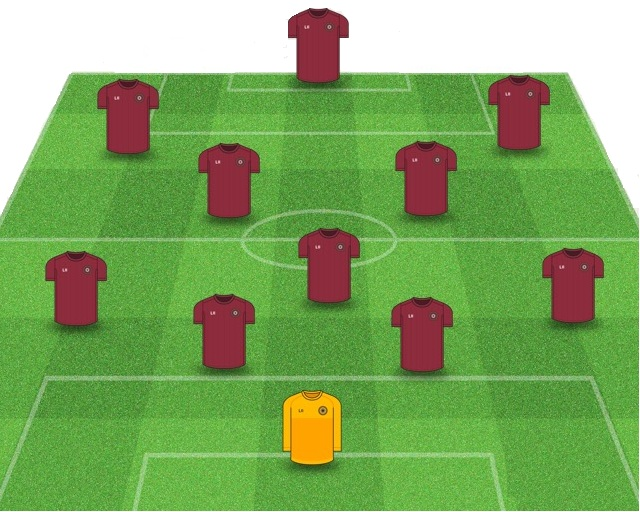
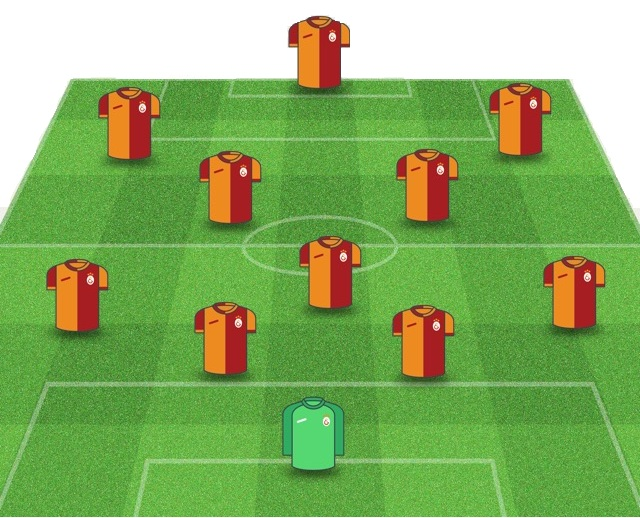
Finalized Tactic view

diff --git a/src/model/DatabaseAccess.java b/src/model/DatabaseAccess.java
@@ -85,35 +85,35 @@ public class DatabaseAccess {
 		ArrayList<Player> players = new ArrayList<Player>();
 		ArrayList<Action> actions = new ArrayList<Action>();
 		// GK
-		players.add(new Player("Fernando Muslera", 30, 180, 70, "Uruguay", "GK", getOverall(), 'R', 1000000, 10000000,
+		players.add(new Player("Muslera", 30, 180, 70, "Uruguay", "GK", 83, 'R', 1000000, 10000000,
 				true, getAttributes(), actions));
 		// DF
-		players.add(new Player("Mariano", 30, 180, 70, "Brazil", "RB", getOverall(), 'R', 1000000, 10000000, true,
+		players.add(new Player("Mariano", 30, 180, 70, "Brazil", "RB", 80, 'R', 1000000, 8000000, true,
 				getAttributes(), actions));
-		players.add(new Player("Maicon", 30, 180, 70, "Brazil", "CB", getOverall(), 'R', 1000000, 10000000, true,
+		players.add(new Player("Maicon", 30, 180, 70, "Brazil", "CB", 82, 'R', 1000000, 14000000, true,
 				getAttributes(), actions));
-		players.add(new Player("Serdar Aziz", 30, 180, 70, "Turkey", "CB", getOverall(), 'R', 1000000, 10000000, true,
+		players.add(new Player("Serdar", 30, 180, 70, "Turkey", "CB", 79, 'R', 1000000, 9000000, true,
 				getAttributes(), actions));
-		players.add(new Player("Yuto Nagatomo", 30, 180, 70, "Japan", "LB", getOverall(), 'R', 1000000, 10000000, true,
+		players.add(new Player("Nagatomo", 30, 180, 70, "Japan", "LB", 78, 'R', 1000000, 6000000, true,
 				getAttributes(), actions));
 		// MF
-		players.add(new Player("Selçuk İnan", 30, 180, 70, "Turkey", "CM", getOverall(), 'R', 1000000, 10000000, true,
+		players.add(new Player("Selçuk", 30, 180, 70, "Turkey", "CM", 79, 'R', 1000000, 5500000, true,
 				getAttributes(), actions));
-		players.add(new Player("Fernando Reges", 30, 180, 70, "Brazil", "CM", getOverall(), 'R', 1000000, 10000000,
+		players.add(new Player("Fernando", 30, 180, 70, "Brazil", "CM", 82, 'R', 1000000, 9000000,
 				true, getAttributes(), actions));
-		players.add(new Player("Younes Belhanda", 30, 180, 70, "Morocco", "CM", getOverall(), 'R', 1000000, 10000000,
+		players.add(new Player("Belhanda", 30, 180, 70, "Morocco", "CM", 80, 'R', 1000000, 12000000,
 				true, getAttributes(), actions));
 		// FW
-		players.add(new Player("Sofiane Feghouli", 30, 180, 70, "Algeria", "RW", getOverall(), 'R', 1000000, 10000000,
+		players.add(new Player("Feghouli", 30, 180, 70, "Algeria", "RW", 81, 'R', 1000000, 14000000,
 				true, getAttributes(), actions));
-		players.add(new Player("Bafetimbi Gomis", 30, 180, 70, "France", "ST", getOverall(), 'R', 1000000, 10000000,
+		players.add(new Player("Gomis", 30, 180, 70, "France", "ST", 83, 'R', 1000000, 10000000,
 				true, getAttributes(), actions));
-		players.add(new Player("Garry Rodrigues", 30, 180, 70, "Cape Verde", "LW", getOverall(), 'R', 1000000, 10000000,
+		players.add(new Player("Garry", 30, 180, 70, "Cape Verde", "LW", 79, 'R', 1000000, 16000000,
 				true, getAttributes(), actions));
 		// Others
-		players.add(new Player("Cedric Carrosco", 30, 180, 70, "France", "GK", getOverall(), 'R', 1000000, 10000000,
+		players.add(new Player("Cedric Carrosco", 30, 180, 70, "France", "GK", 78, 'R', 1000000, 3000000,
 				true, getAttributes(), actions));
-		players.add(new Player("Martin Linnes", 30, 180, 70, "Norway", "RB", getOverall(), 'R', 1000000, 10000000, true,
+		players.add(new Player("Martin Linnes", 30, 180, 70, "Norway", "RB", 77, 'R', 1000000, 5000000, true,
 				getAttributes(), actions));
 		players.add(new Player("Ahmet Çalık", 30, 180, 70, "Turkey", "CB", getOverall(), 'R', 1000000, 10000000, true,
 				getAttributes(), actions));
@@ -537,7 +537,7 @@ public class DatabaseAccess {
 		// President
 		President president = new President("Genesio", 71, 180, 70, "Portugal");
 		// Team
-		Team team = new Team("Lyon", "Red-Blue", "433", "Stade de Gerland", "Les Gones", "France", "LYO", 5.0, 0, 0,
+		Team team = new Team("Leverkusen", "Red-Blue", "433", "Stade de Gerland", "Les Gones", "France", "LYO", 5.0, 0, 0,
 				manager, president, players);
 		return team;
 	}

diff --git a/src/controller/TacticController.java b/src/controller/TacticController.java
@@ -1,5 +1,6 @@
 package controller;
 
+import java.io.File;
 import java.io.IOException;
 import java.net.URL;
 import java.time.LocalDate;
@@ -16,13 +17,16 @@ import javafx.scene.control.Alert;
 import javafx.scene.control.Alert.AlertType;
 import javafx.scene.control.Button;
 import javafx.scene.control.ComboBox;
+import javafx.scene.control.Labeled;
 import javafx.scene.control.ScrollPane;
+import javafx.scene.image.Image;
+import javafx.scene.image.ImageView;
 import javafx.scene.layout.GridPane;
 import javafx.scene.layout.HBox;
 import javafx.scene.text.Text;
 
 public class TacticController implements Initializable {
-	
+
 	@FXML
 	private Text teamName;
 	@FXML
@@ -57,7 +61,8 @@ public class TacticController implements Initializable {
 	private GridPane gridPlayer;
 	@FXML
 	private ScrollPane scrollPlayer;
-	
+	@FXML
+	private ImageView logo;
 	
 	@FXML
 	public void teamClicked() throws IOException {
@@ -106,9 +111,45 @@ public class TacticController implements Initializable {
 		Parent root = FXMLLoader.load(getClass().getResource("/view/MatchPlayView.fxml"));
 		Main.getMainStage().setScene(new Scene(root));
 	}
-	
+
 	@Override
 	public void initialize(URL url, ResourceBundle rb) {
+		Tournament current = Tournament.getInstance();
+		Team t = current.getTeams()[current.getMyTeamId()];
+		teamName.setText(t.getName());
+		gk.setText(t.getPlayers().get(0).getName());
+		this.rb.setText(t.getPlayers().get(1).getName());
+		cb1.setText(t.getPlayers().get(2).getName());
+		cb2.setText(t.getPlayers().get(3).getName());
+		lb.setText(t.getPlayers().get(4).getName());
+		cm1.setText(t.getPlayers().get(5).getName());
+		cm3.setText(t.getPlayers().get(6).getName());
+		cm2.setText(t.getPlayers().get(7).getName());
+		rw.setText(t.getPlayers().get(8).getName());
+		st.setText(t.getPlayers().get(9).getName());
+		lw.setText(t.getPlayers().get(10).getName());
+
+		File file = new File("img/galatasaray.png");
+		Image image = new Image(file.toURI().toString());
+		logo.setImage(image);
 		
+		for (int i = 0; i < 19; i++) {
+			Text playerName = new Text(t.getPlayers().get(i).getName());
+			Text position = new Text(t.getPlayers().get(i).getPosition());
+			if (i > 10)
+				position.setText("SUB");
+			Text overall = new Text(t.getPlayers().get(i).getOverall() + "");
+			Text nation = new Text(t.getPlayers().get(i).getNationality());
+			Text value = new Text(t.getPlayers().get(i).getValue()/1000000 + "m €");
+			System.out.println(gridPlayer == null);
+			gridPlayer.add(playerName, 1, i);
+			gridPlayer.add(position, 0, i);
+			gridPlayer.add(overall, 2, i);
+			gridPlayer.add(nation, 3, i);
+			gridPlayer.add(value, 4, i);
+			
+		}
 	}
+	
+
 }

diff --git a/src/controller/Main.java b/src/controller/Main.java
@@ -3,11 +3,14 @@ package controller;
 import java.io.IOException;
 import java.util.ArrayList;
 import javafx.application.Application;
+import javafx.beans.value.ChangeListener;
+import javafx.beans.value.ObservableValue;
 import javafx.stage.Stage;
 import javafx.fxml.FXMLLoader;
 import javafx.scene.Parent;
 import javafx.scene.Scene;
 import javafx.scene.image.Image;
+import javafx.scene.input.KeyCombination;
 import javafx.stage.Stage;
 import model.*;
 
@@ -22,14 +25,28 @@ public class Main extends Application {
 	
 	@Override
 	public void start(Stage primaryStage) throws Exception {
+		
 		mainStage = primaryStage;
 		mainStage.setTitle("Stars League");
 		mainStage.setResizable(false);
 		// Opening scene
 		Parent root = FXMLLoader.load(getClass().getResource("/view/HomeScreen.fxml"));
+		mainStage.setFullScreen(true);
 		mainStage.setScene(new Scene(root, 1400, 900));
+		mainStage.setFullScreen(true);
+		mainStage.setFullScreenExitKeyCombination(KeyCombination.NO_MATCH);
 		mainStage.show();
 	}
+	/*
+	primaryStage.fullScreenProperty().addListener(new ChangeListener<Boolean>() {
+
+        @Override
+        public void changed(ObservableValue<? extends Boolean> observable,
+                Boolean oldValue, Boolean newValue) {
+            if(newValue != null && !newValue.booleanValue())
+                primaryStage.setFullScreen(true);
+        }
+    }*/
 
 	public static int getOverall() {
 		return MIN_SCORE + (int) (Math.random() * DIFF_SCORE + 1);
@@ -172,8 +189,12 @@ public class Main extends Application {
 		return team;
 	}
 
-	public static void main(String[] args) throws InterruptedException, IOException {
-		
+	public static void main(String[] args) throws InterruptedException, IOException, ClassNotFoundException {
+		Tournament c = Tournament.getInstance();
+		Database.saveCurrentGame(c);
+		System.out.println(c.getTeams() == null);
+		Database.loadCurrentGame();
+		c.setMyTeamId(3);
 		launch(args);
 		Team team1 = getFirstTeam();
 		Team team2 = getSecondTeam();
@@ -271,7 +292,10 @@ public class Main extends Application {
 	}
 
 	public static Stage getMainStage() {
+		mainStage.setFullScreen(true);
 		return mainStage;
 	}
+	
+	
 
 }

diff --git a/src/controller/TopMenu.java b/src/controller/TopMenu.java
@@ -59,7 +59,7 @@ public class TopMenu implements Initializable {
 
 	@FXML
 	public void saveClicked() throws IOException {
-		Parent root = FXMLLoader.load(getClass().getResource("/view/HomeScreen.fxml"));
+		Parent root = FXMLLoader.load(getClass().getResource("/view/TacticView.fxml"));
 		Main.getMainStage().setScene(new Scene(root));
 	}
 
